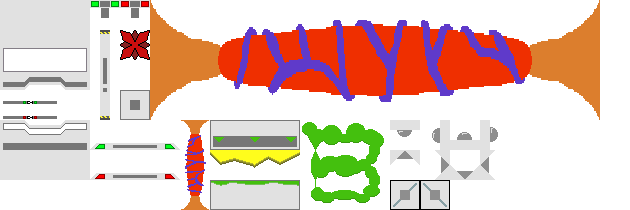
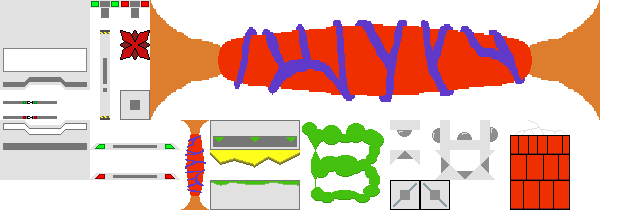
updating the files
I'm fixed my old computer, and I'm about to move back!!!!! this means that I need to upload hastily done in-dev files!!!

Changed region(s): [[0.7841, 0.6, 0.9048, 1.0]]

diff --git a/physics.js b/physics.js
@@ -30,27 +30,27 @@ function updateCollisions() {
 
         switch (object.type)
         {
-            case 0:
+            case 0: // exit teleporter
                 {
                     hitBoxes.push({x1:object.x+8, x2:object.x+82, y1: object.y+23, y2: object.y+30, type: i})
                     break;
                 }
-            case 1:
+            case 1: // cube
                 {
                     hitBoxes.push({x1:object.x, x2:object.x+30, y1: object.y, y2: object.y+30, type: i})
                     break;
                 }
-            case 2:
+            case 2: // cube dropper
                 {
                     hitBoxes.push({x1: object.x, x2: object.x+90, y1: object.y, y2: object.y+60, type: i});
                     break;
                 }
-            case 3:
+            case 3: // cube scanner
                 {
                     hitBoxes.push({x1: object.x, x2: object.x+30, y1: object.y, y2: object.y+12, type: i});
                     break;
                 }
-            case 4:
+            case 4: // laser catcher & reciever
             case 5: // SWITCH CASE FALLTHROUGH FTW!!!
                 {
                     hitBoxes.push({
@@ -60,6 +60,17 @@ function updateCollisions() {
                         y2: object.y + 30 - 20*(object.state.direction == 0),
                         type: i
                     });
+                    break;
+                }
+            case 6: // big bomb
+                {
+                    if (!object.state.blewUp)
+                    {
+                        hitBoxes.push({
+                            x1: object.x, x2: object.x+60,
+                            y1: object.y+15, y2: object.y+90,type: i
+                        });
+                    }
                     break;
                 }
         }
@@ -142,6 +153,8 @@ function getPlayerCollision() {
     return {x1: player.x, x2: player.x+20, y1: player.y, y2:player.y+40};
 }
 
+var explodableWalls = [34];
+var explosionResult = {34: 24};
 function handleObjects()
 {
     for (var i = 0; i < objects.length; i++) // pre processing loop cause laser catchers are evil
@@ -233,6 +246,34 @@ function handleObjects()
                         handleLaser(object);
                     }
                 }
+                //laser receiver is skipped over here.
+            case 6: // big bomb
+                {
+                    if (object.state.primed)
+                    {
+                        var baseX = object.x + 30;
+                        var baseY = object.y + 45;
+                        for (var j = 0; j < levelStats.height; j++)
+                        {
+                            for (var i = 0; i < levelStats.width; i++)
+                            {
+                                if (explodableWalls.includes(level[j][i]))
+                                {
+                                    if (Math.sqrt(
+                                    Math.pow(i*30+15-baseX, 2) + 
+                                    Math.pow(j*30+15-baseY, 2)) < 70)
+                                    {
+                                        level[j][i] = explosionResult[level[j][i]];
+                                    }
+                                }
+                            }
+                        }
+                        object.state.primed = false;
+                        object.state.blewUp = true;
+
+                        object.x = object.y = -100;
+                    }
+                }
         }
     }
 }
@@ -286,8 +327,6 @@ function pressE()
     }
     // above code says, if player holding object, drop it
 
-    // dis means displacement, not "this" in a new york accent!!!
-
     var disVec = {x: cursor.x - player.x - 10 + camera.x, y: cursor.y - player.y - 20 + camera.y};
 
     var disLength = Math.sqrt(Math.pow(disVec.x,2)+Math.pow(disVec.y,2)); //disVec modulus
@@ -314,7 +353,7 @@ function pressE()
                 (object.x+objectSizes[object.type][0] > curCheckLocation.x) && (object.x < curCheckLocation.x) &&
                 (object.y+objectSizes[object.type][1] > curCheckLocation.y) && (object.y < curCheckLocation.y)
             ) {
-                if ([1,2,3].includes(object.type)) {
+                if (1 == object.type) {
                     if (object.state.grabbable) {
                         playerGrabbedObject = i;
                         loopDone = true;
@@ -427,7 +466,11 @@ function handleLaser(object)
                         laser.y = 8*dy+15+object2.y;
                         break;
                 }
-            } else {  // touched any other object type
+            } else if (object2.type == 6) //lighting a bomb!!!
+            {
+                object2.state.primed = true;
+            }
+            else {  // touched any other object type
                 done = true;
                 break;
             }

diff --git a/levelEditor.js b/levelEditor.js
@@ -11,7 +11,7 @@ document.getElementById("tileSelect").addEventListener('mousedown', function (ev
     cursor.id+= 12*Math.floor((event.offsetY)/30);
 })
 
-var placeableObjects = [0,2,3,4,5];
+var placeableObjects = [0,2,3,4,5,6];
 document.getElementById("cursorPalate").addEventListener('mousedown', function (event) 
 {
     cursor.type = Math.floor(event.offsetX/30);
@@ -23,13 +23,14 @@ document.getElementById("cursorPalate").addEventListener('mousedown', function (
     switch (cursor.type)
     {
         case 1: {
-            selectPalate.width = 150;
+            selectPalate.width = 180;
             selectPalate.height= 30;
             selectPalateCTX.drawImage(objectPNG, 90,150,90,30, 0 , 0,30,30);
             selectPalateCTX.drawImage(objectPNG,  0,120,90,60, 30, 0,30,30);
             selectPalateCTX.drawImage(objectPNG, 90,  0,30,30, 60, 0,30,30);
             selectPalateCTX.drawImage(objectPNG,480,120,30,30, 90, 0,30,30);
             selectPalateCTX.drawImage(objectPNG,420,150,30,30,120, 0,30,30);
+            selectPalateCTX.drawImage(objectPNG,510,120,60,90,150, 0,30,30);
         }
     }
     
@@ -305,6 +306,10 @@ function placeObject(x,y,type)
                 object.state = {on: false, direction: 1};
                 break;
             }
+        case 6:
+            {
+                object.state = {blewUp: false, primed: false};
+            }
     }
 
     objects.push(object);
@@ -315,7 +320,7 @@ function placeObject(x,y,type)
 
 }
 
-var objectSizes = [[90,30],[30,30],[90,60],[30,30],[30,30],[30,30]]
+var objectSizes = [[90,30],[30,30],[90,60],[30,30],[30,30],[30,30],[60,90]];
 
 updateNameDropdown();
 
@@ -437,6 +442,10 @@ function renderStateVar (varName)
             return 1;
         case "type":
             return 1;
+        case "blewUp":
+            return 2;
+        case "primed":
+            return 2;
         default: 
             console.log("NON DEFINED IN OBJECT EDIT MENU: " + varName)
             return 0;

diff --git a/main.js b/main.js
@@ -96,7 +96,12 @@ function initGameMode()
                 object.state.cubeIndex = objects.length;
                 var cube = placeObject(object.x+30, object.y-30, 1);
                 objects[cube].state.color = object.state.color;
-                objects[cube].state.type  = object.state.type;
+                if (object.state.type == undefined)
+                {
+                    object.state.type = 0;
+                    objects[cube].state.type = 0;
+                }
+                objects[cube].state.type = object.state.type;
             }
         }
     }

diff --git a/render.js b/render.js
@@ -82,6 +82,17 @@ function renderObjectAny(context, object) {
                 30,30);
             break;
         }
+        case 6:
+        {
+            if (!object.state.blewUp) {
+                context.drawImage(objectPNG,
+                    510, 120,
+                    60,90,
+                    objectRenderX,objectRenderY,
+                    60,90);
+            } // blew up bombs dont exist anymore (most of the time)
+            break;
+        }
     }
 }
 
